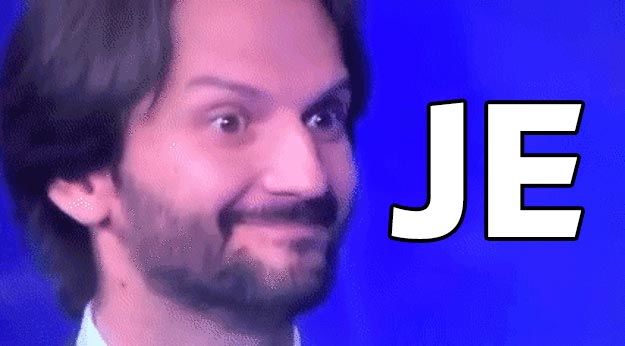
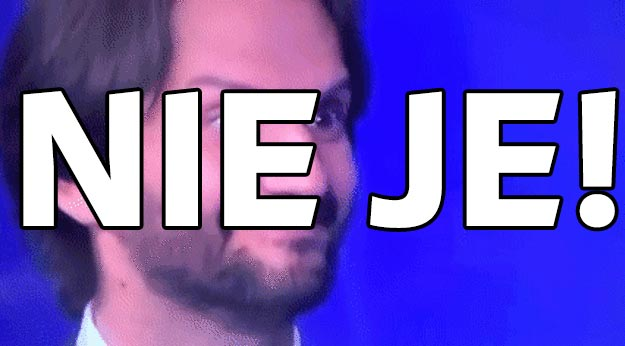
NIE JE

Changed region(s): [[0.0304, 0.2312, 0.5168, 0.6647], [0.5776, 0.2312, 1.0, 0.7225]]

diff --git a/index.html b/index.html
@@ -5,7 +5,7 @@
     <link href="https://fonts.googleapis.com/css?family=Roboto+Slab:700" rel="stylesheet">
     <link href="main.css" rel="stylesheet">
     <title>Je ten čurák ešte ministrom?</title>
-    <meta name="description" content="JE!" />
+    <meta name="description" content="NIE JE!" />
     <meta name="keywords" content="Róbert Kaliňák, minister futra, kokot, čurák, hanba národa, odstúp, demisia" />
     <meta property="og:title" content="Je ten čurák ešte ministrom?">
     <meta property="og:keywords" content="Róbert Kaliňák, minister futra, kokot, čurák, hanba národa, odstúp, demisia">
@@ -13,7 +13,7 @@
     <meta property="og:image" content="http://jetencurakesteministrom.sk/img.jpg">
     <meta property="og:image:width" content="625">
     <meta property="og:image:height" content="346">
-    <meta property="og:description" content="JE!">
+    <meta property="og:description" content="NIE JE!">
 	<meta name="twitter:card" content="summary_large_image">
 	<meta name="twitter:site" content="@jetameste">
 	<meta name="twitter:title" content="Je ten čurák ešte ministrom?">
@@ -28,6 +28,9 @@
 	</script>
 </head>
 <body>
-<h1>JE!</h1>
+<div class="w">
+<h1>NIE JE!</h1>
+<h2>Neboj, príde ďalší.</h2>
+</div>
 </body>
 </html>

diff --git a/main.css b/main.css
@@ -9,15 +9,22 @@ html, body {
 body {
   display: flex;
   align-items: center;
-  background-color: #000; }
-
-h1 {
+  background-color: #fff; }
+.w{
   display: flex;
+  margin: auto;
+  flex-direction:column;
+  text-align: center;
+}
+h1 {
   font-weight: bold;
   margin: 0;
   padding: 0;
-  margin: auto;
   font-size: 8rem;
   color: #c00; }
 
-/*# sourceMappingURL=main.css.map */
+h2{
+  font-size: 3rem;
+  margin: 0;
+  padding: 0;
+}

diff --git a/main.scss b/main.scss
@@ -10,7 +10,7 @@ html, body {
 body {
   display: flex;
   align-items: center;
-  background-color: #000;
+  background-color: #fff;
 }
 
 h1 {
